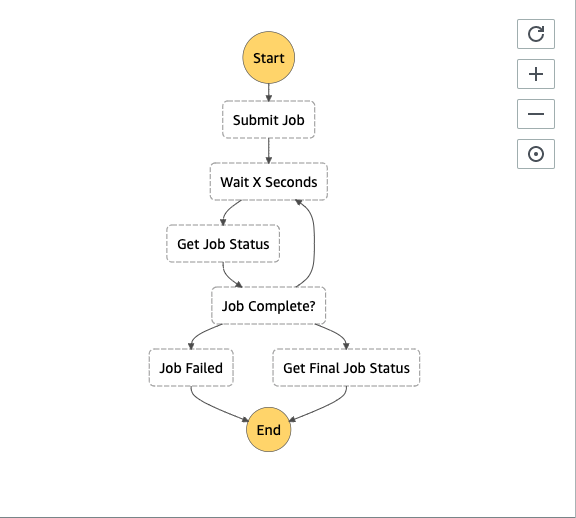
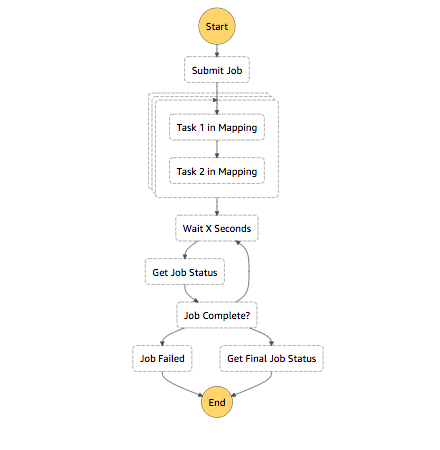
feat(py-stepfunctions): add step-mapping to example (#215)
* Added Mapping to step function

* Added Mapping to step function

* Added Mapping to step function

* Made suggested corrections.

Changed region(s): [[0.2364, 0.0, 0.7386, 0.9333], [0.0, 0.9956, 1.0, 1.0], [0.8864, 0.0311, 0.975, 0.3111]]

diff --git a/python/stepfunctions/stepfunctions/stepfunctions_stack.py b/python/stepfunctions/stepfunctions/stepfunctions_stack.py
@@ -15,12 +15,31 @@ class JobPollerStack(core.Stack):
         check_job_activity = sfn.Activity(
             self, "CheckJob"
         )
+        do_mapping_activity1 = sfn.Activity(
+            self, "MapJOb1"
+        )
+        do_mapping_activity2 = sfn.Activity(
+            self, "MapJOb2"
+        )
 
         submit_job = sfn.Task(
             self, "Submit Job",
             task=sfn_tasks.InvokeActivity(submit_job_activity),
             result_path="$.guid",
         )
+
+        task1 = sfn.Task(
+            self, "Task 1 in Mapping",
+            task=sfn_tasks.InvokeActivity(do_mapping_activity1),
+            result_path="$.guid",
+        )
+
+        task2 = sfn.Task(
+            self, "Task 2 in Mapping",
+            task=sfn_tasks.InvokeActivity(do_mapping_activity2),
+            result_path="$.guid",
+        )
+
         wait_x = sfn.Wait(
             self, "Wait X Seconds",
             time=sfn.WaitTime.seconds_path('$.wait_time'),
@@ -45,14 +64,22 @@ class JobPollerStack(core.Stack):
             input_path="$.guid",
         )
 
-        definition = submit_job\
-            .next(wait_x)\
-            .next(get_status)\
+        definition_map = task1.next(task2)
+
+        process_map = sfn.Map(
+            self, "Process_map",
+            max_concurrency=10
+        ).iterator(definition_map)
+
+        definition = submit_job \
+            .next(process_map) \
+            .next(wait_x) \
+            .next(get_status) \
             .next(is_complete
                   .when(sfn.Condition.string_equals(
-                      "$.status", "FAILED"), job_failed)
+                    "$.status", "FAILED"), job_failed)
                   .when(sfn.Condition.string_equals(
-                      "$.status", "SUCCEEDED"), final_status)
+                    "$.status", "SUCCEEDED"), final_status)
                   .otherwise(wait_x))
 
         sfn.StateMachine(
